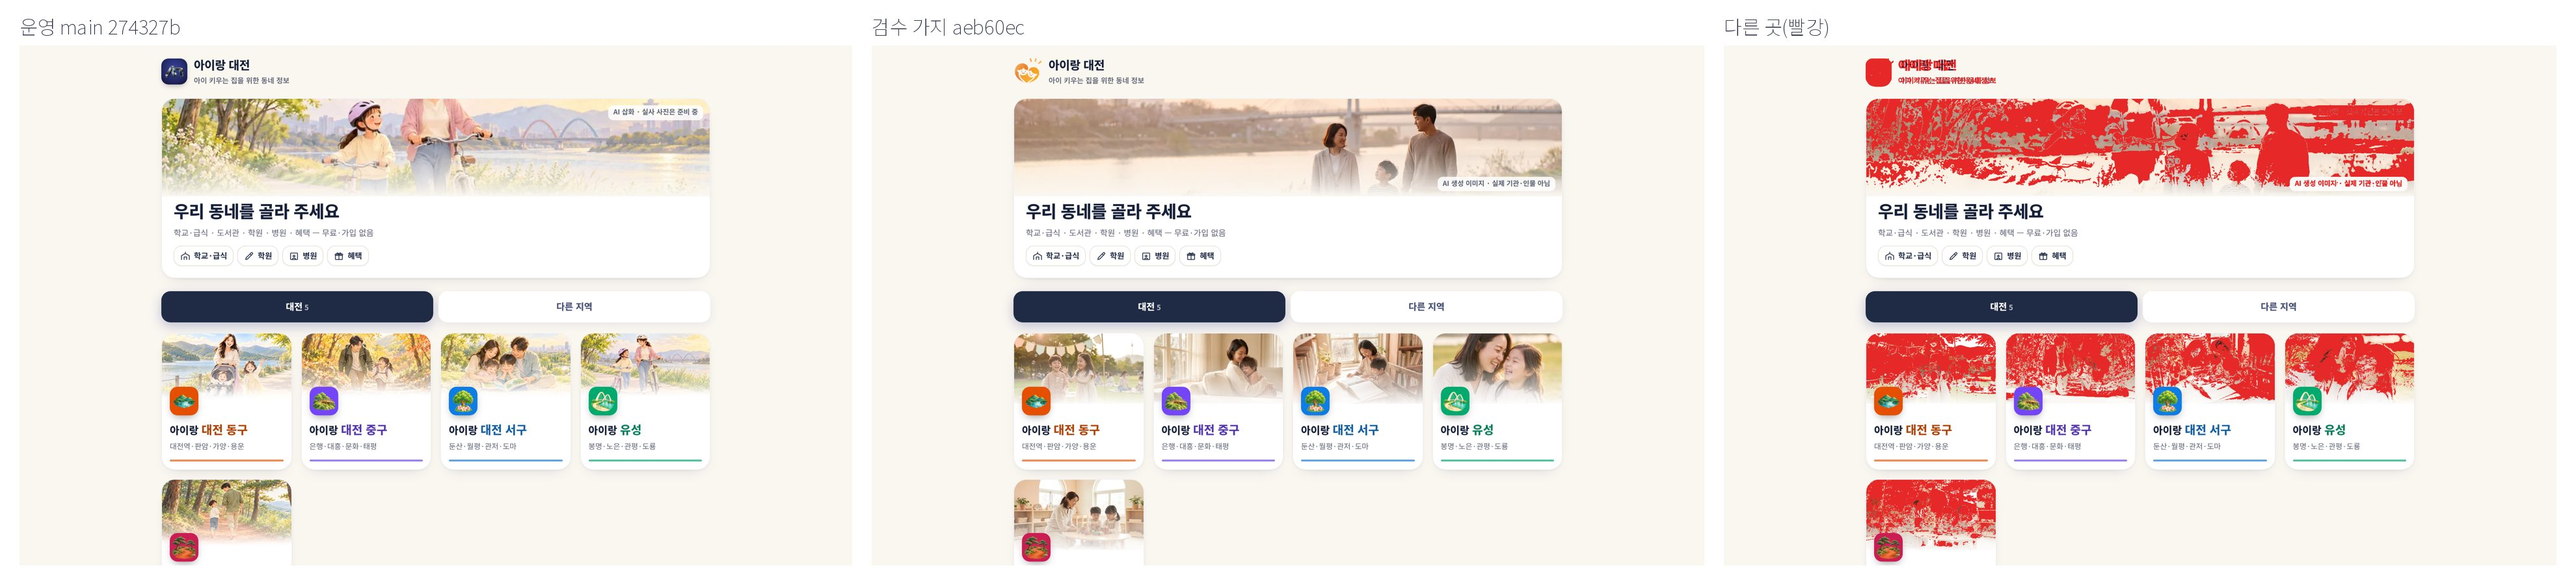
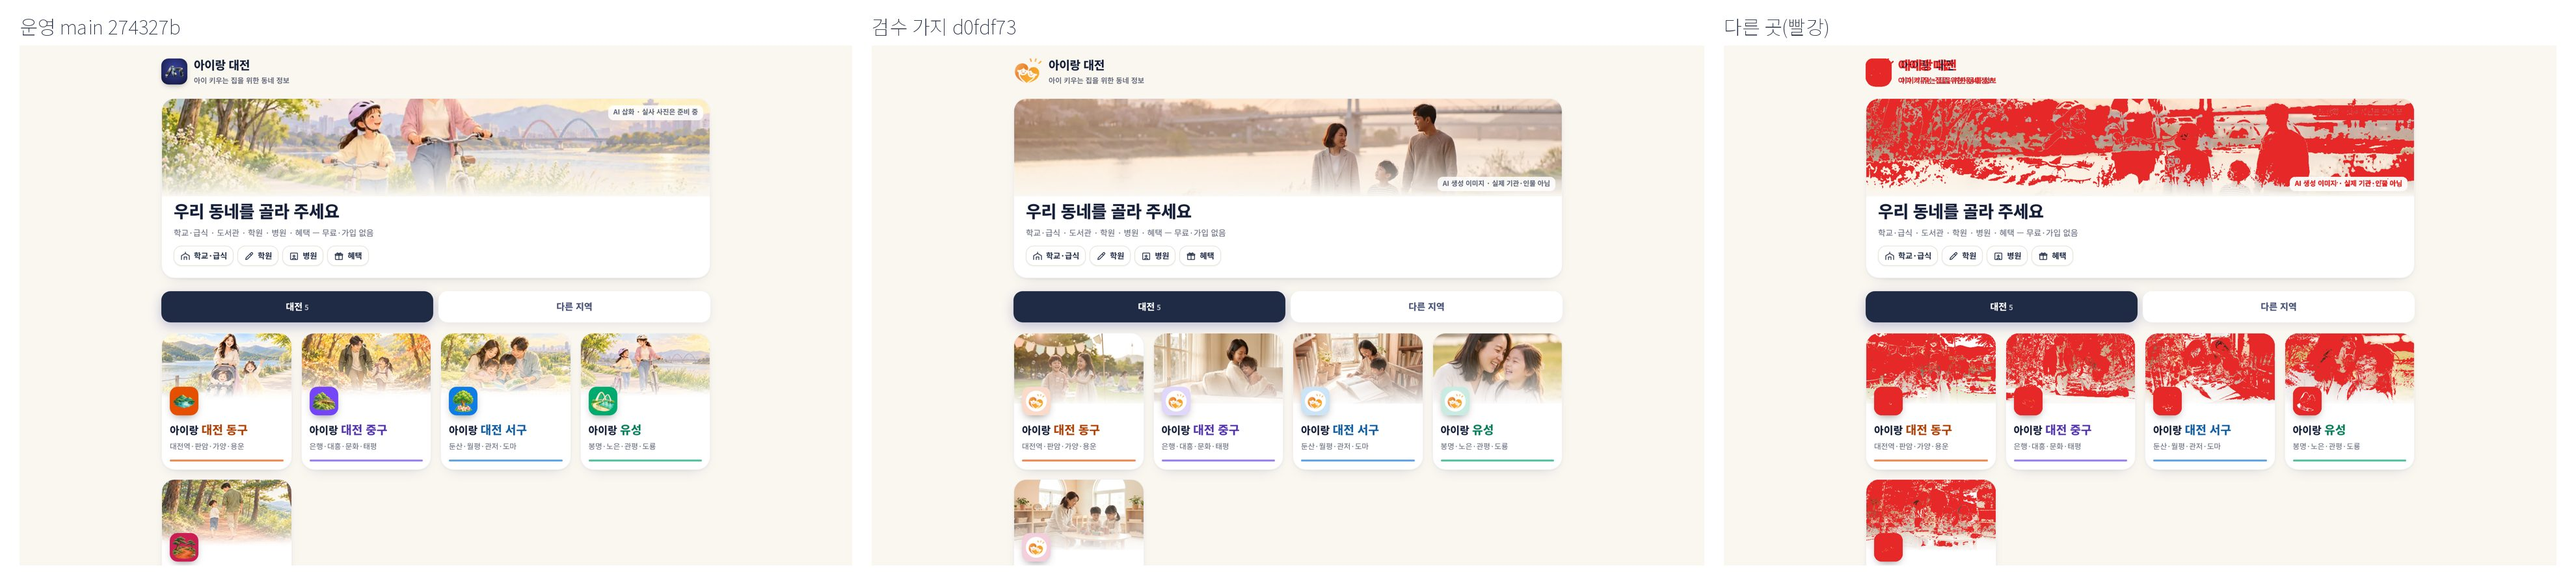
052 추가: 입구 구별 아이콘 삽화 → 확정 로고+구 색 타일(대표 승인), 삽화 검사 확장
Claude-Session: https://claude.ai/code/session_01Av7xmGvufoCKB7F6raS8o2

diff --git a/app/entry/index.html b/app/entry/index.html
@@ -346,7 +346,7 @@ function render(near) {
     <a class="lift city ${near === k ? "near" : ""}" style="--c:${c};--ci:${ci || c}" href="${url(k)}" onclick="pick('${k}')">
       ${near === k ? `<span class="badge">가까운 곳</span>` : ""}
       <div class="pic" style="background-image:image-set(url(img/card-${k}-800.webp) 1x,url(img/card-${k}-1600.webp) 2x)"></div>
-      <img class="ic" src="img/ic-${k}.png" alt="">
+      <img class="ic" src="img/tile-${k}.png" alt="">
       <div class="body"><div class="nm">아이랑 <span>${n}</span></div><div class="gu">${gu}</div><div class="bar"></div></div>
     </a>`;
   const n = s => CITIES.filter(x => x[6] === s).length;
@@ -359,7 +359,7 @@ function render(near) {
     : `<div class="grid">${CITIES.filter(x => x[6] === tab).map(card).join("")}</div><p class="ai-note">사진은 AI 생성 이미지예요 · 실제 기관·인물 아님</p>`;   // 2026-11-09: 카드 사진 위에 글씨를 얹지 않고 아래에 따로 표기
   const last = CITIES.find(x => x[0] === store.get("airang.city"));
   document.getElementById("again").innerHTML = last ? `
-    <a class="lift again" style="--c:${last[2]}" href="${url(last[0])}"><img src="img/ic-${last[0]}.png" alt="">
+    <a class="lift again" style="--c:${last[2]}" href="${url(last[0])}"><img src="img/tile-${last[0]}.png" alt="">
       <div class="t"><small>지난번에 본 도시</small><b>아이랑 ${last[1]}</b></div><span class="go">바로 가기 ›</span></a>` : "";
 }
 function locate() {

diff --git a/app/build.py b/app/build.py
@@ -176,7 +176,7 @@ def build_entry(out):
     ph = os.path.join(HERE, "entry", "photos")
     if os.path.isdir(ph):
         for f in os.listdir(ph):
-            if f.endswith(".webp"): shutil.copy(os.path.join(ph, f), os.path.join(d, "img", f))
+            if f.endswith((".webp", ".png")): shutil.copy(os.path.join(ph, f), os.path.join(d, "img", f))
     for k in CFG["cities"]:
         own = os.path.join(HERE, "cities", k)
         if not os.path.isdir(own):   # 후보 도시(미리보기 빌드)는 그림 폴더가 없을 수 있음 → 대표 그림 자리 비움(경고만)

diff --git a/docs/design_qa/2026-11-09/design_diff.md b/docs/design_qa/2026-11-09/design_diff.md
@@ -1,24 +1,48 @@
 # 디자인 차이 점검 — 2026-11-09
-기준 origin/main(274327b) ↔ 검수 가지 HEAD(aeb60ec) · 자료는 양쪽 동일(디자인만 비교)
+기준 origin/main(274327b) ↔ 검수 가지 HEAD(d0fdf73) · 자료는 양쪽 동일(디자인만 비교)
 
 ## 디자인 파일 차이
 ```
 M	app/build.py
 M	app/entry/index.html
+A	app/entry/photos/card-daedeok-1600.webp
+A	app/entry/photos/card-daedeok-800.webp
+A	app/entry/photos/card-djdonggu-1600.webp
+A	app/entry/photos/card-djdonggu-800.webp
+A	app/entry/photos/card-djjunggu-1600.webp
+A	app/entry/photos/card-djjunggu-800.webp
+A	app/entry/photos/card-djseogu-1600.webp
+A	app/entry/photos/card-djseogu-800.webp
+A	app/entry/photos/card-yuseong-1600.webp
+A	app/entry/photos/card-yuseong-800.webp
+A	app/entry/photos/entry-main-1600.webp
+A	app/entry/photos/entry-main-800.webp
 M	app/index.html
 
-app/build.py         | 2 ++
- app/entry/index.html | 7 ++++---
- app/index.html       | 1 +
- 3 files changed, 7 insertions(+), 3 deletions(-)
+app/build.py                             |   7 +++++++
+ app/entry/index.html                     |  12 +++++++-----
+ app/entry/photos/card-daedeok-1600.webp  | Bin 0 -> 112912 bytes
+ app/entry/photos/card-daedeok-800.webp   | Bin 0 -> 37380 bytes
+ app/entry/photos/card-djdonggu-1600.webp | Bin 0 -> 74052 bytes
+ app/entry/photos/card-djdonggu-800.webp  | Bin 0 -> 30762 bytes
+ app/entry/photos/card-djjunggu-1600.webp | Bin 0 -> 77700 bytes
+ app/entry/photos/card-djjunggu-800.webp  | Bin 0 -> 24128 bytes
+ app/entry/photos/card-djseogu-1600.webp  | Bin 0 -> 90846 bytes
+ app/entry/photos/card-djseogu-800.webp   | Bin 0 -> 32254 bytes
+ app/entry/photos/card-yuseong-1600.webp  | Bin 0 -> 79530 bytes
+ app/entry/photos/card-yuseong-800.webp   | Bin 0 -> 24558 bytes
+ app/entry/photos/entry-main-1600.webp    | Bin 0 -> 131090 bytes
+ app/entry/photos/entry-main-800.webp     | Bin 0 -> 37842 bytes
+ app/index.html                           |   5 +++--
+ 15 files changed, 17 insertions(+), 7 deletions(-)
 ```
 
 ## 화면 화소 차이(2배 화질, 차이 기준 밝기 24 초과)
 | 화면 | 폭 | 다른 화소 | 그림 |
 |---|---|---|---|
-| entry | 390 | 21.58% | diff_entry_390.jpg |
+| entry | 390 | 23.74% | diff_entry_390.jpg |
 | yuseong_home | 390 | 0.00% | diff_yuseong_home_390.jpg |
-| entry | 1280 | 12.50% | diff_entry_1280.jpg |
+| entry | 1280 | 13.38% | diff_entry_1280.jpg |
 | yuseong_home | 1280 | 0.00% | diff_yuseong_home_1280.jpg |
 
 ## 대표 확정 원본 ↔ 실제

diff --git a/docs/2026-11-09_아이랑대전_052_실사풍이미지교체_사용권검수_v01후보.md b/docs/2026-11-09_아이랑대전_052_실사풍이미지교체_사용권검수_v01후보.md
@@ -37,3 +37,10 @@
 2. 카드 사진이 그 구의 실제 동네 풍경은 아님(장면 사진 재사용) — 오인 방지 표기 있음
 3. 유성 카드와 유성 홈 사진이 같은 장면
 4. 대표 디자인 승인 전, 운영 미반영
+
+## 추가(2026-11-09 01:13 대표 "구별 아이콘도 수정 승인")
+- 입구 카드·'지난번에 본 도시'의 구별 삽화 아이콘(ic-<구>) → **확정 로고 + 구 색 연한 타일**(tile-<구>, 192px). 새 그림 없음(확정 로고 파일 + 구 색 조합). 원본 아이콘 파일은 보존
+- 삽화 검사에 ic-<구> 추가 → 입구 + 5개 구 × 10화면 통과
+- 재검: 전체 자동 113 통과·3 건너뜀(글꼴 실기기) / 기존 60/60 / 하단 메뉴 0/24
+- **바꾸지 않은 것**: 휴대폰 홈 화면에 설치했을 때의 앱 아이콘(icon-192·512, 구별·입구) — 512px 선명도에 확정 로고 고해상도 원본 필요(현재 112px)
+- 사용권: tile-<구> = 확정 로고(조건부 — 생성 도구 대표 확인) + 단색 배경
